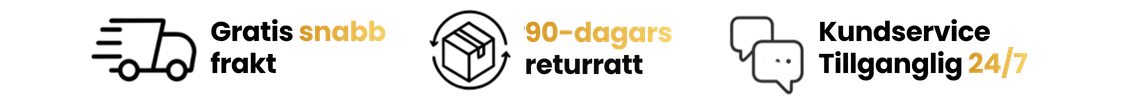
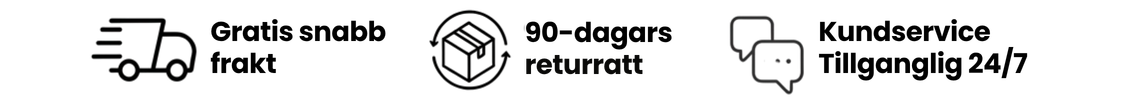
Update checkout colors and assets

Changed region(s): [[0.4663, 0.21, 0.6217, 0.51], [0.8393, 0.48, 0.9325, 0.78], [0.2487, 0.21, 0.3419, 0.42]]

diff --git a/index.html b/index.html
@@ -311,7 +311,7 @@
     padding: 18px 16px 22px;
     text-align: center;
     color: #252A32;
-    background: #F8F6F0;
+    background: #E5E5E5;
     font-family: Outfit, sans-serif;
     font-size: 13px;
     line-height: 1.6;
@@ -339,7 +339,7 @@
   .el-379599.section_row,
   .el-459517.container,
   .local-footer {
-    background-color: #F8F6F0 !important;
+    background-color: #E5E5E5 !important;
   }
 
   .el-333104,
@@ -366,7 +366,7 @@
     object-fit: contain !important;
     object-position: center center !important;
     border-radius: 0 !important;
-    background: #dbe1e8 !important;
+    background: transparent !important;
   }
 
   .el-876509 .el-18273.container,
@@ -3361,14 +3361,14 @@ countdown();
   html body .el-412296 .el-362438.container,
   html body .el-379599.section_row,
   html body .el-459517.container {
-    background: #F8F6F0 !important;
-    background-color: #F8F6F0 !important;
+    background: #E5E5E5 !important;
+    background-color: #E5E5E5 !important;
     color: #252A32 !important;
   }
 
   html body .local-footer {
-    background: #F8F6F0 !important;
-    background-color: #F8F6F0 !important;
+    background: #E5E5E5 !important;
+    background-color: #E5E5E5 !important;
     color: #252A32 !important;
   }
 
@@ -3380,16 +3380,16 @@ countdown();
   html body .section_wrapper_422078 .el-379599.section_row,
   html body .section_wrapper_422078 .container_459517,
   html body .section_wrapper_422078 .el-459517.container {
-    background: #F8F6F0 !important;
-    background-color: #F8F6F0 !important;
+    background: #E5E5E5 !important;
+    background-color: #E5E5E5 !important;
     opacity: 1 !important;
     filter: none !important;
     mix-blend-mode: normal !important;
   }
 
   html body .local-footer {
-    background: #F8F6F0 !important;
-    background-color: #F8F6F0 !important;
+    background: #E5E5E5 !important;
+    background-color: #E5E5E5 !important;
     opacity: 1 !important;
     filter: none !important;
     mix-blend-mode: normal !important;
@@ -3413,10 +3413,10 @@ countdown();
 
   html body .local-static-cta button,
   html body .el-876509 .el-54760 .btn {
-    background: #4DA2F1 !important;
-    background-color: #4DA2F1 !important;
+    background: #000 !important;
+    background-color: #000 !important;
     color: #fff !important;
-    border-color: #4DA2F1 !important;
+    border-color: #000 !important;
   }
 
   html body .el-876509 .el-54760 .btn-headline,
@@ -3617,46 +3617,6 @@ countdown();
 
     html body .local-footer {
       padding-top: 8px !important;
-    }
-  }
-</style>
-<style id="checkout-black-header-footer">
-  html body .section_wrapper_422078 .el-412296.section_row,
-  html body .section_wrapper_422078 .el-362438.container,
-  html body .section_wrapper_422078 .el-379599.section_row,
-  html body .section_wrapper_422078 .el-459517.container,
-  html body .local-footer {
-    background: #000 !important;
-    background-color: #000 !important;
-    color: #fff !important;
-  }
-
-  html body .section_wrapper_422078 .el-412296.section_row *,
-  html body .section_wrapper_422078 .el-362438.container *,
-  html body .section_wrapper_422078 .el-379599.section_row *,
-  html body .section_wrapper_422078 .el-459517.container *,
-  html body .local-footer,
-  html body .local-footer *,
-  html body .local-footer__links a {
-    color: #fff !important;
-  }
-
-  html body .local-static-cta button,
-  html body .el-876509 .el-54760 .btn {
-    background: #000 !important;
-    background-color: #000 !important;
-    border-color: #000 !important;
-    color: #fff !important;
-  }
-
-  html body .el-876509 .el-54760 .btn-headline,
-  html body .local-static-cta button {
-    color: #fff !important;
-  }
-
-  @media only screen and (max-width: 600px) {
-    html body .section_wrapper_422078 .el-459517 .el-539140::before {
-      color: #fff !important;
     }
   }
 </style>